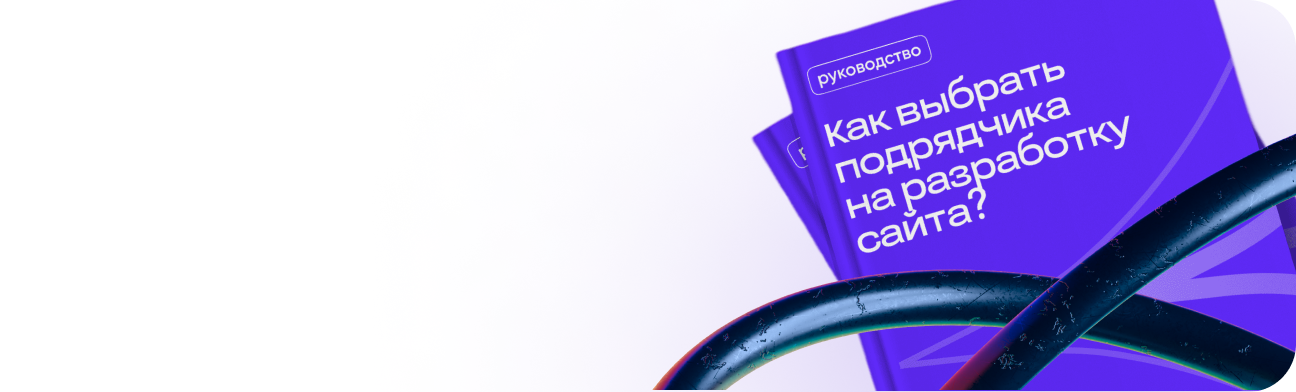
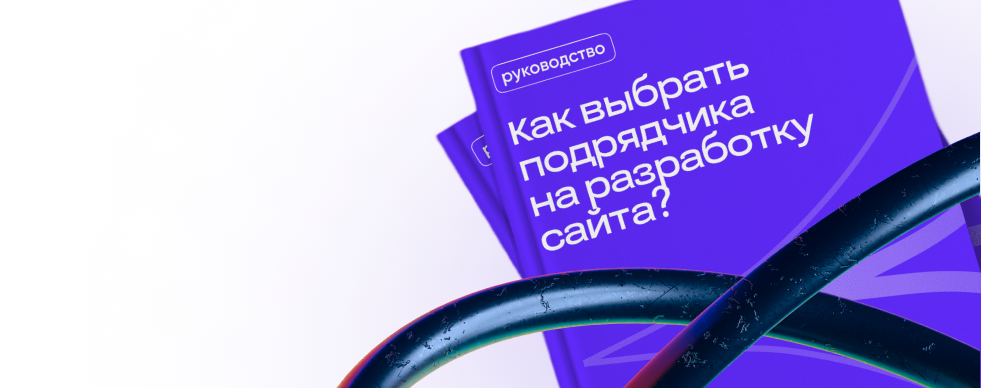
I h8 my life

Changed region(s): [[0.3364, 0.0, 1.0, 1.0], [0.9786, 0.7423, 1.0, 0.7732]]

diff --git a/index.html b/index.html
@@ -409,7 +409,7 @@
                 <span class="accordeon-question">Смогу ли я дальше сам управлять лендингом?<img draggable="false" src="images/accordeon_arrow.svg" alt="^"></span>
                 <div class="accordeon-subject">
                   <div class="small accordeon-subject-text">
-                    Да мы предоставляем все необходимые данные для самостоятельной работы с системой управления лендингом (CMS). Показываем, как можно самостоятельно редактировать блоки своими силами.
+                    Да, мы предоставляем все необходимые данные для самостоятельной работы с системой управления лендингом (CMS). Показываем, как можно самостоятельно редактировать блоки своими силами.
                   </div>  
                 </div>
               </div>
@@ -417,7 +417,7 @@
                 <span class="accordeon-question">Какой контент будет размещен на лендинге?<img draggable="false" src="images/accordeon_arrow.svg" alt="^"></span>
                 <div class="accordeon-subject">
                   <div class="small accordeon-subject-text">
-                    Да, в тарифе “Профессиональный” мы тщательно прорабатываем контент, делаем его конверсионным, что способствует увеличению конверсий и продаж.
+                    В тарифе “Профессиональный” мы тщательно прорабатываем контент, делаем его конверсионным, что способствует увеличению конверсий и продаж.
                   </div>
                 </div>
               </div>

diff --git a/css/main.css b/css/main.css
@@ -335,10 +335,11 @@ input[type="file"] {
 }
 
 .contractor-form {
-  background-image: url('../images/contractor.webp');
+  background-image: url('../images/contractor.png');
   background-color: var(--card-bg-color);
   background-position: top right;
-  background-size: cover;
+  background-size: contain;
+  background-repeat: no-repeat;
   border-radius: var(--medium-radius);
 }
 .contractor-subtitle {
